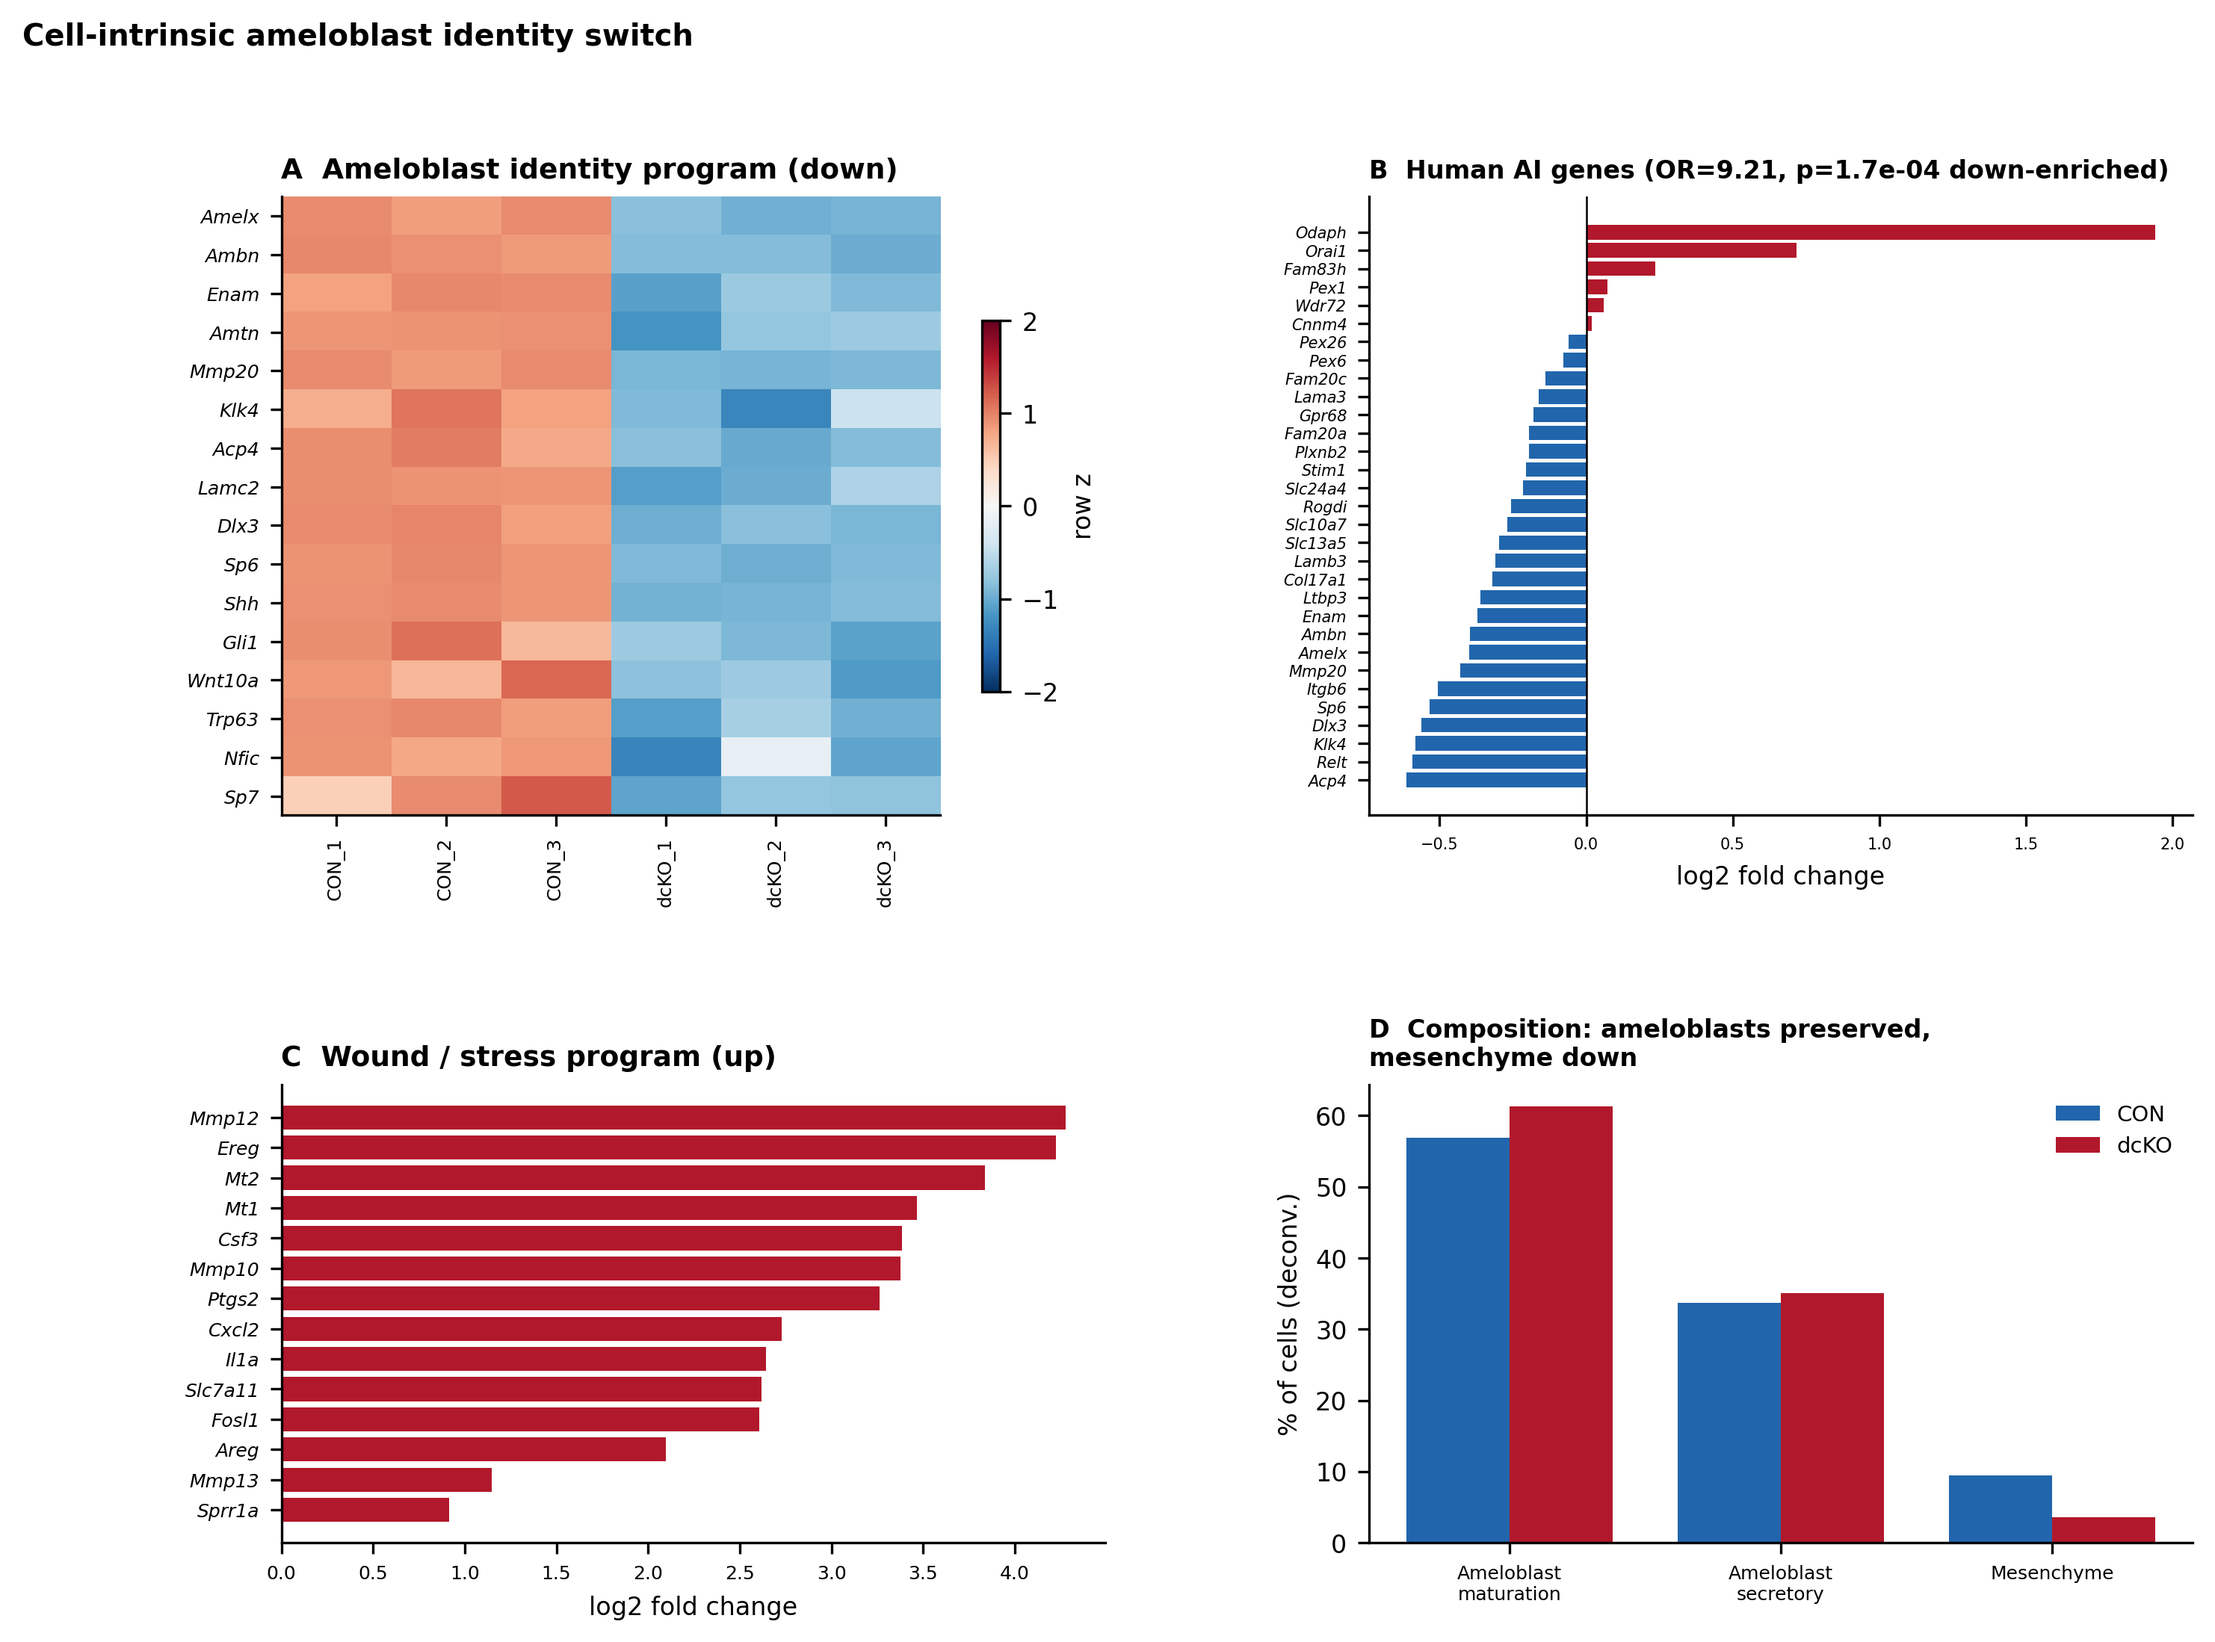
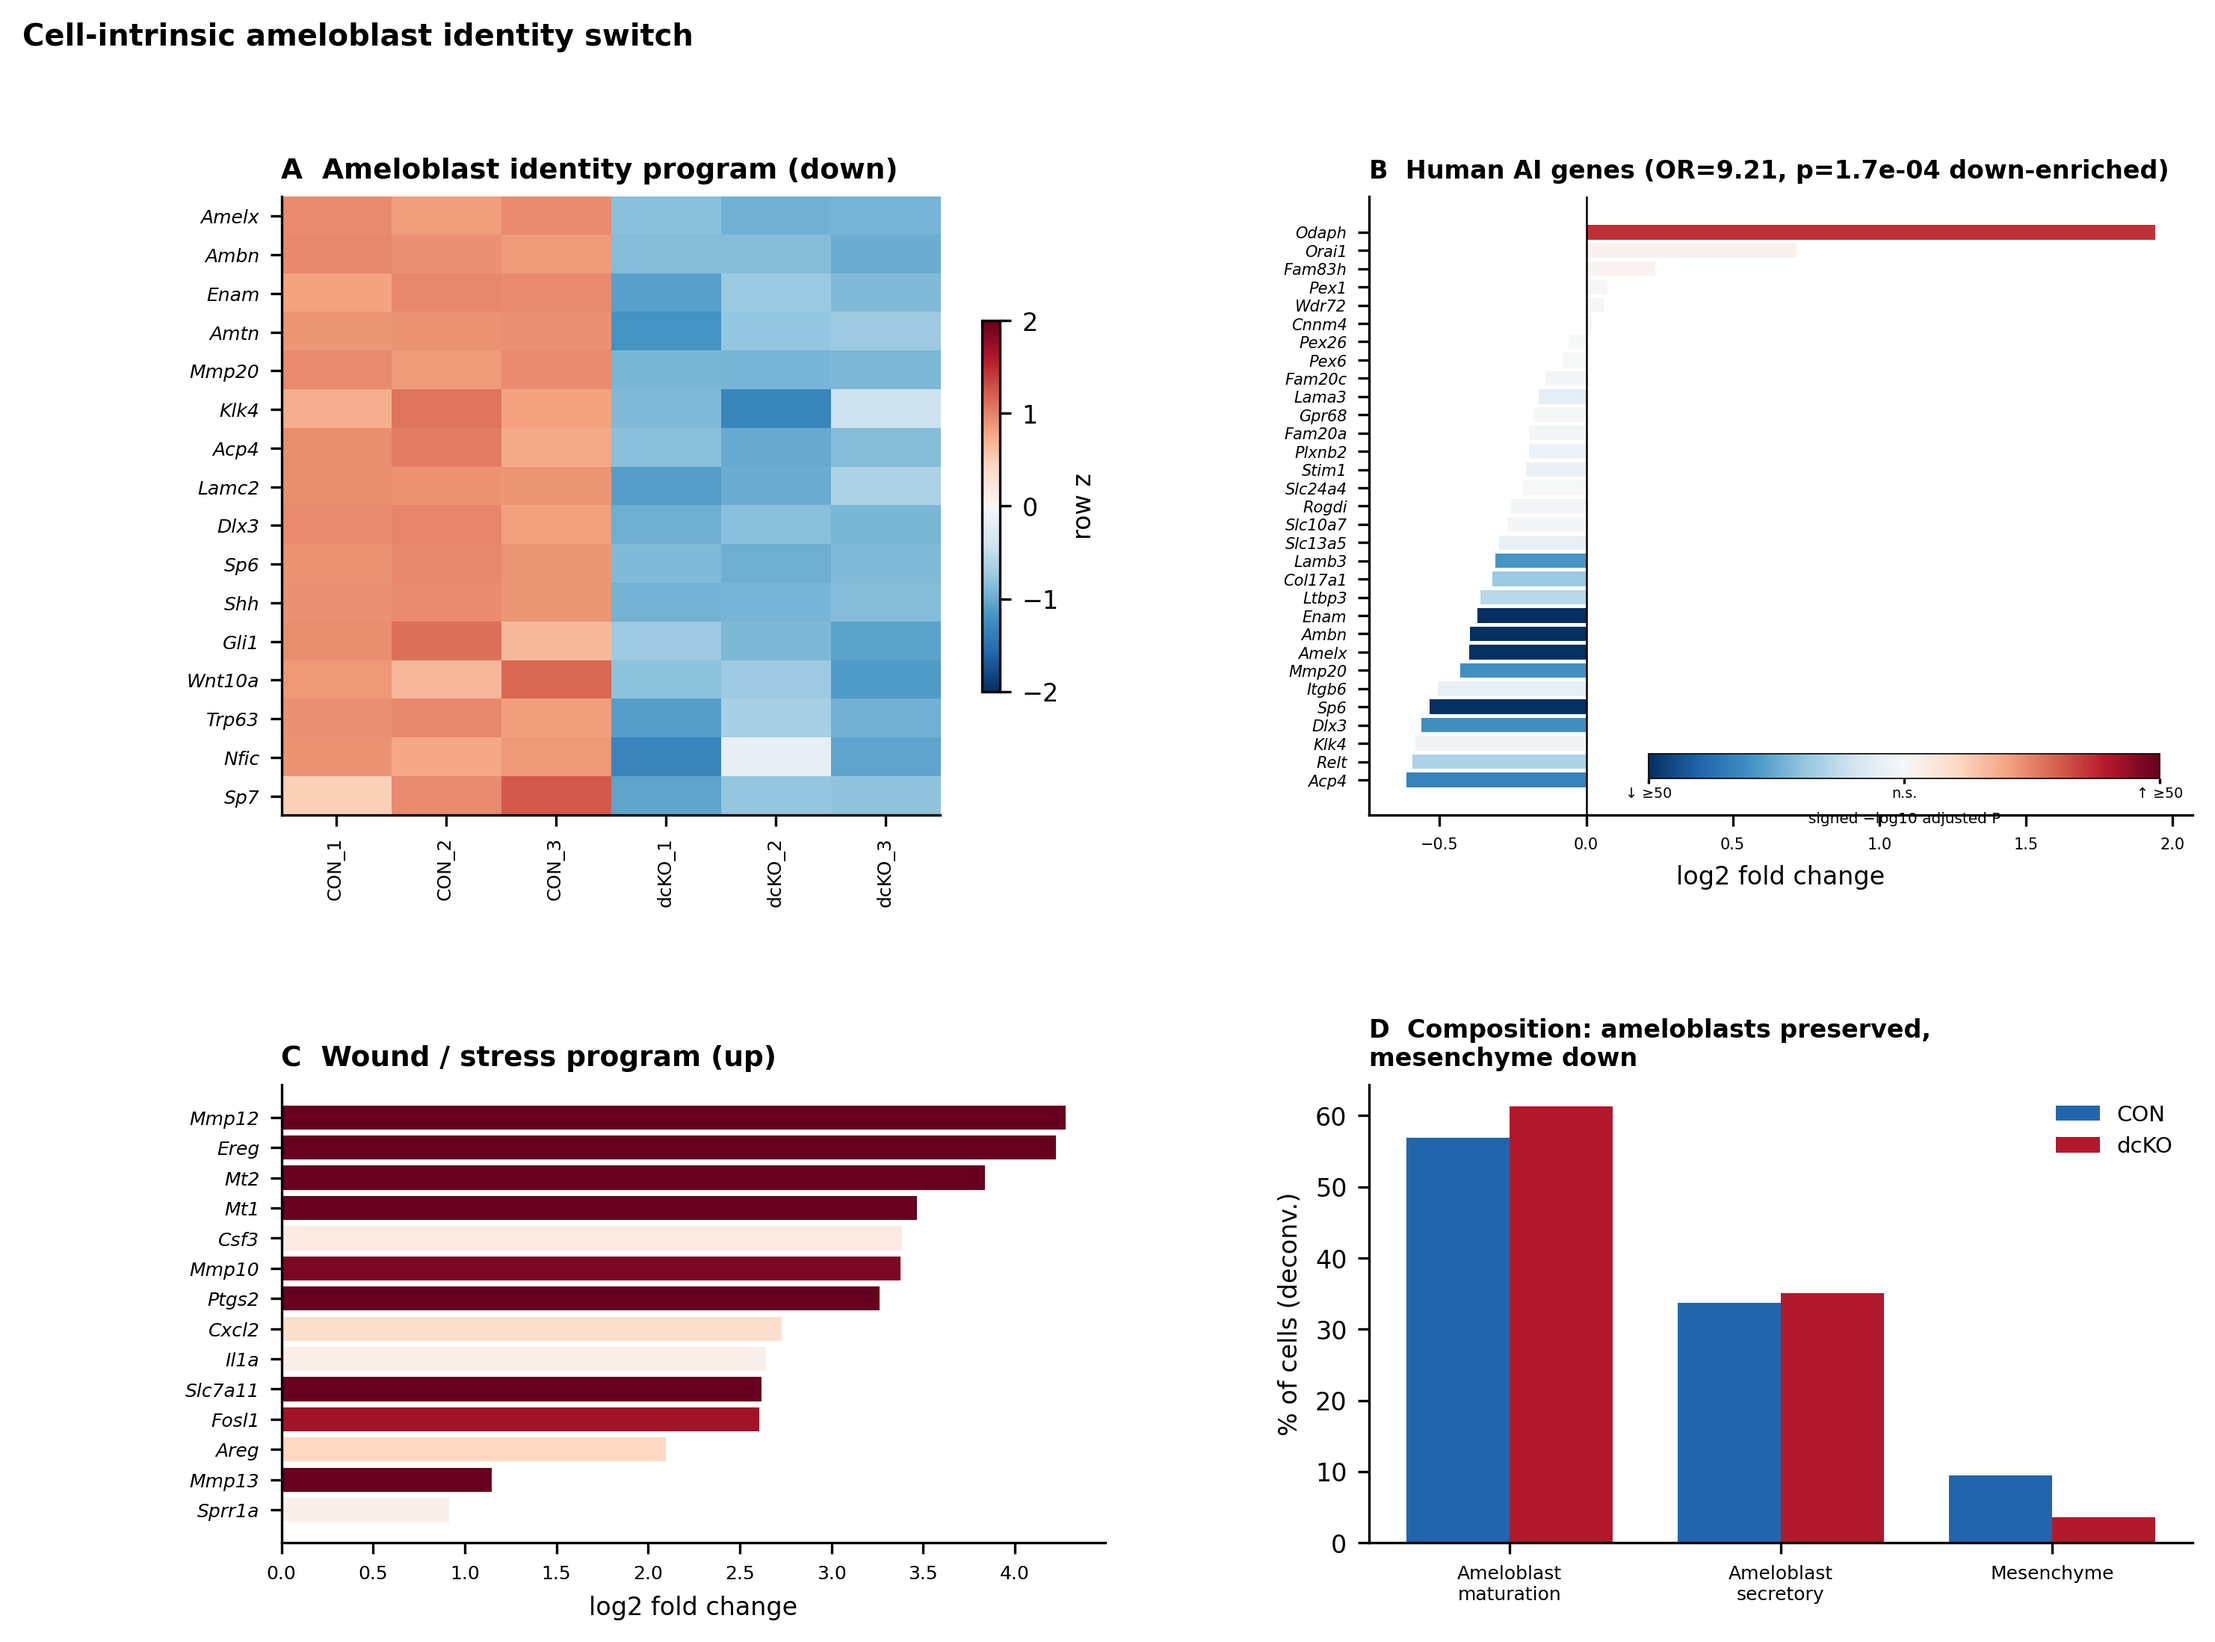
Encode signed significance in the bar colour of Figures 5B/5C and 6D/6E
Bar colour in these four panels was redundant with the bar's own direction. It now
carries a second dimension: hue gives direction (blue down, red up) and intensity
gives -log10 adjusted P on a diverging RdBu ramp with a neutral midpoint, saturating
at 50 (the median across these gene sets is ~18, and beyond 1e-50 further zeros do not
change interpretation). This is the same map already used by the Figure 5A heatmap, so
the figures stay coherent, and it follows the project's rule that polarity takes a
diverging scale and magnitude a sequential one - never a rainbow.

The encoding earns its place: Mmp13 has a modest fold change but a very small adjusted
P, while Csf3 has a large fold change with weaker support - a distinction bar length
alone cannot show.

NOT applied to Figures 4C, 6A or 5D. Colour there encodes GENOTYPE (CON vs dcKO), which
nothing else in those panels conveys, and the four programme-level P values are all at
the n=3 exact-permutation floor of 0.10 - colouring by P would produce four identical
bars and imply a gradient the design cannot produce.

Colourbars are drawn as insets in each panel's empty region rather than via
fig.colorbar(ax=[...]), which steals space from the union of the given axes and ran the
bar straight through the neighbouring panel.

diff --git a/pipeline/07_figures.py b/pipeline/07_figures.py
@@ -37,6 +37,52 @@ plt.rcParams.update({"font.size": 8, "axes.titlesize": 9, "axes.titleweight": "b
                      "axes.spines.right": False})
 
 
+
+# ---------- signed-significance colour encoding ----------
+# Bars in panels 5B, 5C, 6D and 6E are coloured by SIGNED significance:
+# hue carries direction (blue = down, red = up, grey = not significant) and
+# intensity carries -log10(adjusted P). This is a diverging encoding with a
+# neutral midpoint, per the project's visualisation rules — sequential ramps are
+# for unsigned magnitude, diverging for polarity, never a rainbow.
+#
+# It is applied ONLY where colour was previously redundant with the bar's own
+# direction. Panels 4C and 5D coluor by GENOTYPE (CON vs dcKO), which nothing else
+# encodes, and their programme-level P values are all at the n=3 permutation floor
+# of 0.10 — colouring those by P would render identical bars and imply a gradient
+# the design cannot produce.
+PCAP = 50.0   # -log10 adjusted P at which the ramp saturates; median is ~18
+
+def sig_colors(lfc, padj, cap=PCAP):
+    """Diverging colour by sign(log2FC) x min(-log10 padj, cap)."""
+    lfc = np.asarray(lfc, dtype=float)
+    padj = np.asarray(padj, dtype=float)
+    with np.errstate(divide="ignore", invalid="ignore"):
+        nlp = -np.log10(np.where((padj > 0) & np.isfinite(padj), padj, np.nan))
+    nlp = np.where(np.isfinite(nlp), nlp, cap)       # padj == 0 -> saturate
+    nlp = np.clip(nlp, 0, cap)
+    signed = np.sign(lfc) * nlp
+    return plt.get_cmap("RdBu_r")(TwoSlopeNorm(0, -cap, cap)(signed))
+
+
+def sig_colorbar(fig, host_ax, rect=(0.42, 0.86, 0.50, 0.045),
+                 label="signed −log10 adjusted P"):
+    """Compact colourbar drawn INSIDE `host_ax` at `rect` (axes fraction).
+
+    Deliberately an inset rather than a normal colorbar: passing several axes to
+    fig.colorbar makes matplotlib steal space from the union of their extents, which
+    in a 2x2 layout runs the bar straight through the neighbouring panel.
+    """
+    cax = host_ax.inset_axes(rect)
+    sm = plt.cm.ScalarMappable(cmap="RdBu_r", norm=TwoSlopeNorm(0, -PCAP, PCAP))
+    cb = fig.colorbar(sm, cax=cax, orientation="horizontal")
+    cb.set_ticks([-PCAP, 0, PCAP])
+    cb.set_ticklabels([f"↓ ≥{PCAP:.0f}", "n.s.", f"↑ ≥{PCAP:.0f}"])
+    cb.ax.tick_params(labelsize=4.6, length=1.6, pad=1)
+    cb.set_label(label, fontsize=4.8, labelpad=3.5)
+    cb.outline.set_linewidth(0.4)
+    return cb
+
+
 def _load():
     deg = pd.read_csv(os.path.join(OUT, "DEG_table.csv"), skiprows=1, low_memory=False,
                      float_precision="round_trip")  # see note below
@@ -134,11 +180,12 @@ def figure5(deg, tpm, dec, ai):
     # (B) AI gene log2FC
     axB = fig.add_subplot(gs[0, 1])
     a = ai.dropna(subset=["log2FoldChange"]).sort_values("log2FoldChange")
-    cols = [RED if v > 0 else BLUE for v in a.log2FoldChange]
+    # colour now encodes signed significance, not bare direction
     # Label with the mouse symbol: the BioMart human-ortholog column is NaN for ~41%
     # of tested genes, which both breaks the axis and is the defect that corrupted the
     # enrichment itself (see 16_ai_gene_enrichment.py).
-    axB.barh(a["external_gene_name"], a.log2FoldChange, color=cols)
+    axB.barh(a["external_gene_name"], a.log2FoldChange,
+             color=sig_colors(a.log2FoldChange, a.padj))
     axB.axvline(0, c="k", lw=.6); axB.set_xlabel("log2 fold change")
     # Never hard-code a statistic into a figure (CLAUDE.md §2). Read the value that
     # 16_ai_gene_enrichment.py computed, and fail loudly if it is not there.
@@ -158,7 +205,8 @@ def figure5(deg, tpm, dec, ai):
     wq = PROGRAMS["Wound"]           # display exactly the scored program
     d = deg.dropna(subset=["external_gene_name"]).groupby("external_gene_name")["log2FoldChange"].mean()
     wv = d.reindex([g for g in wq if g in d.index]).dropna().sort_values()
-    axC.barh(wv.index, wv.values, color=RED)
+    wp = deg.dropna(subset=["external_gene_name"]).groupby("external_gene_name")["padj"].first()
+    axC.barh(wv.index, wv.values, color=sig_colors(wv.values, wp.reindex(wv.index).values))
     axC.axvline(0, c="k", lw=.6); axC.set_xlabel("log2 fold change")
     axC.set_title("C  Wound / stress program (up)"); axC.tick_params(labelsize=6)
     for lbl in axC.get_yticklabels(): lbl.set_style("italic")
@@ -175,6 +223,7 @@ def figure5(deg, tpm, dec, ai):
     axD.set_ylabel("% of cells (deconv.)")
     axD.set_title("D  Composition: ameloblasts preserved,\nmesenchyme down", fontsize=8)
     axD.legend(frameon=False, fontsize=7)
+    sig_colorbar(fig, axB, rect=(0.34, 0.06, 0.62, 0.040))
     fig.suptitle("Cell-intrinsic ameloblast identity switch", x=.02, ha="left", fontweight="bold")
     save(fig, "Figure5_identity_switch")
 
@@ -214,8 +263,9 @@ def figure6(deg, mod, spec):
     st = d.reindex(PROGRAMS["Sterol"]).dropna().sort_values(ascending=False).head(9)
     ifn = d.reindex(PROGRAMS["IFN"]).dropna().sort_values().head(7)
     v = pd.concat([st, ifn])
-    cols = [RED if x > 0 else BLUE for x in v]
-    ax[3].barh(range(len(v)), v.values, color=cols)
+    # colour now encodes signed significance, not bare direction
+    vp = deg.dropna(subset=["external_gene_name"]).groupby("external_gene_name")["padj"].first()
+    ax[3].barh(range(len(v)), v.values, color=sig_colors(v.values, vp.reindex(v.index).values))
     ax[3].set_yticks(range(len(v))); ax[3].set_yticklabels(v.index, fontsize=6, style="italic")
     ax[3].axvline(0, c="k", lw=.6); ax[3].set(xlabel="log2 FC", title="D  Sterol up / IFN down")
     ax[3].invert_yaxis()
@@ -223,10 +273,12 @@ def figure6(deg, mod, spec):
     de = deg.dropna(subset=["external_gene_name"]).groupby("external_gene_name")["log2FoldChange"].mean()
     erk = ["Ereg","Areg","Dusp6","Dusp1","Dusp4","Egr1","Dusp5","Fosl1","Spry4","Fosb","Spry2","Fos"]
     ev = de.reindex(erk).dropna().sort_values()
-    ax[4].barh(range(len(ev)), ev.values, color=RED)
+    ep = deg.dropna(subset=["external_gene_name"]).groupby("external_gene_name")["padj"].first()
+    ax[4].barh(range(len(ev)), ev.values, color=sig_colors(ev.values, ep.reindex(ev.index).values))
     ax[4].set_yticks(range(len(ev))); ax[4].set_yticklabels(ev.index, fontsize=6, style="italic")
     ax[4].axvline(0, c="k", lw=.6)
     ax[4].set(xlabel="log2 FC", title="E  ERK-activation signature")
+    sig_colorbar(fig, ax[3], rect=(0.03, 0.90, 0.42, 0.040))
     fig.suptitle("Signaling-to-metabolism convergence (ERK / SREBP2 activation)",
                  x=.02, ha="left", fontweight="bold")
     save(fig, "Figure6_metabolic_convergence")
